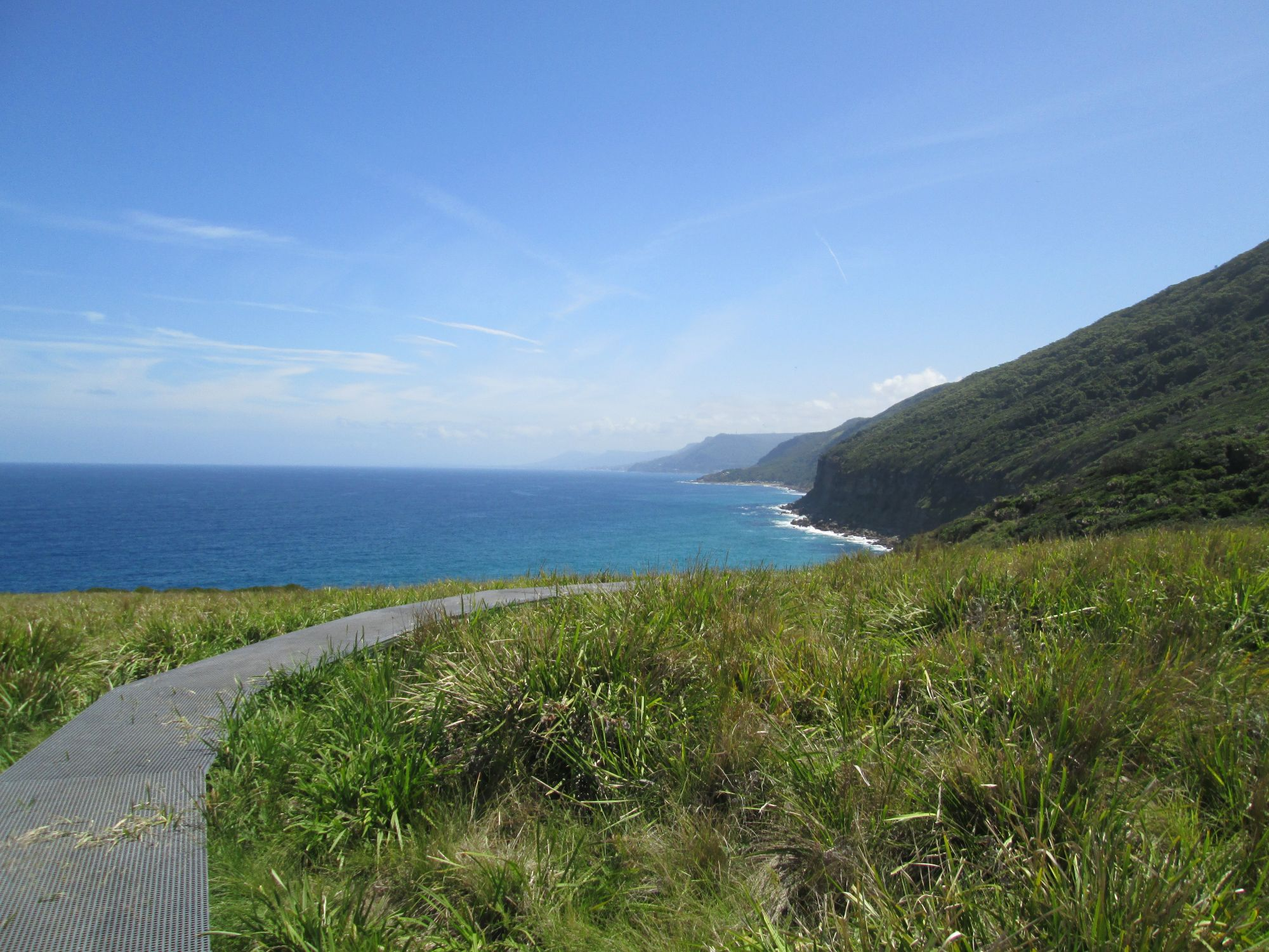
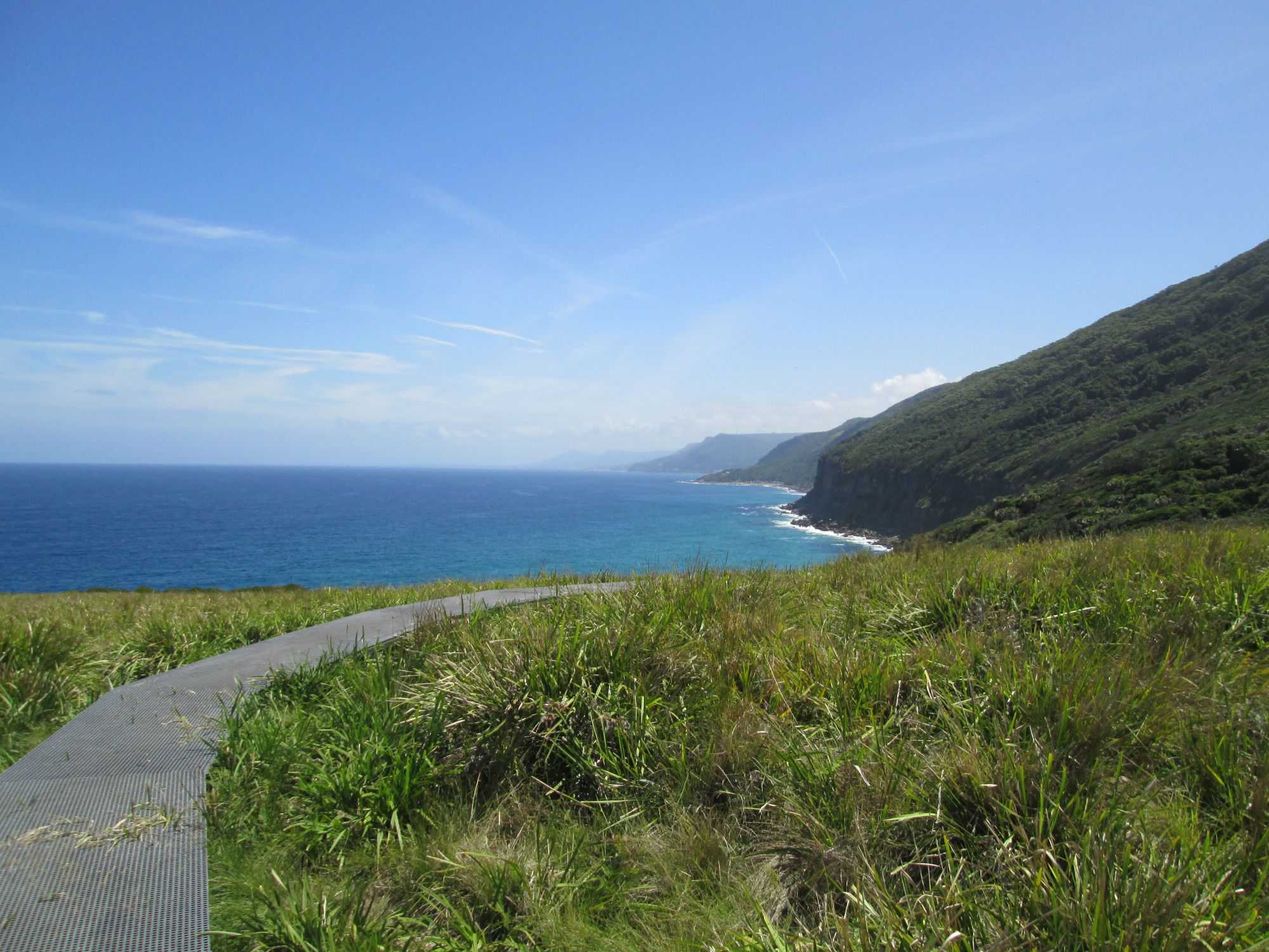
compressed the images

diff --git a/blog.html b/blog.html
@@ -90,7 +90,7 @@
             <div class="col-md-6">
                 <div class="single-blog">
                     <p class="blog-meta">By Pramod&nbsp;<span>&nbsp;August 4, 2019</span></p><img class="img-fluid"
-                        src="assets/img/WP_20171127_05_37_55_Pro%201.jpg" alt="Image of Nature">
+                        src="assets/img/WP_20171127_05_37_55_Pro1.jpg" alt="Image of Nature">
                     <h2><a href="blog-detail.html">Learn how to code in Ruby&nbsp;</a></h2>
                     <p class="blog-text">Lorem ipsum dolor, sit amet consectetur adipisicing elit. Iusto assumenda debitis modi libero, vero velit iure minima qui sit rem, ipsa totam! Iste facilis sed dolores amet, quam iure qui.</p>
                     <p><a class="read-more-btn" href="blog-detail.html">Read More ...</a><span><i class="fa fa-thumbs-o-up"></i> 6

diff --git a/gallery.html b/gallery.html
@@ -84,9 +84,9 @@
                                 src="assets/img/WP_20180204_07_02_27_Pro.jpg" alt="Picture of nature"></a></div>
                 </div>
                 <div class="col-md-4">
-                    <div class="card"><a href="assets/img/WP_20171127_05_37_55_Pro%201.jpg" target="_blank"
+                    <div class="card"><a href="assets/img/WP_20171127_05_37_55_Pro1.jpg" target="_blank"
                             data-lightbox="photos"><img class="img-fluid"
-                                src="assets/img/WP_20171127_05_37_55_Pro%201.jpg" alt="Picture of nature"></a></div>
+                                src="assets/img/WP_20171127_05_37_55_Pro1.jpg" alt="Picture of nature"></a></div>
                 </div>
             </div>
         </div>
